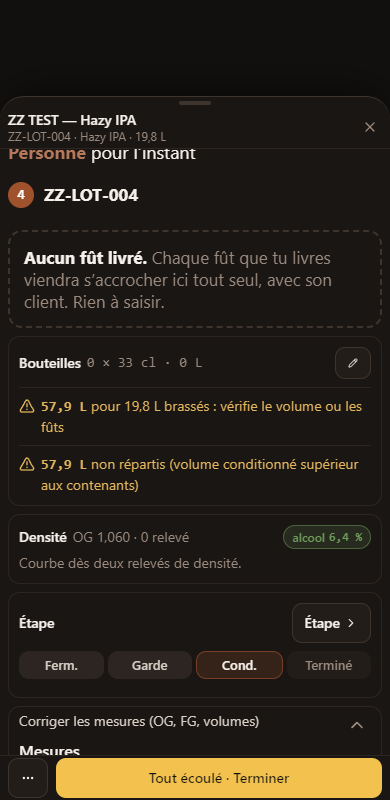
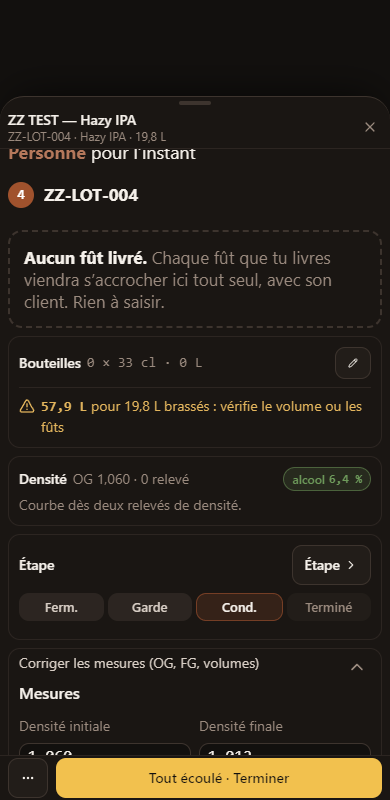
Bugs k1 A : points 1 et 4 — bandeau du haut sans la valeur refusée, carte Contenants sans seconde alerte de volume ; CORRECTIONS-A

diff --git a/src/ui/production/fiche/PostFiche.tsx b/src/ui/production/fiche/PostFiche.tsx
@@ -201,7 +201,8 @@ export const Contenants: React.FC<{ batch: Batch; futs: Array<{ id: string; capa
       {/* BR-115, BE-86 : un brassin ne donne pas plus de bière qu'il n'en contenait ; douteux = signalé, jamais effacé. */}
       {(() => { const cuve = packagingLimitL(batch); return cuve !== null && batch.volumePackagedL != null && batch.volumePackagedL > cuve + 1e-9
         ? <p role="status" data-conditionne-trop className="mt-2 flex items-start gap-1.5 border-t border-cave-800 pt-2 text-sm text-attention"><AlertTriangle size={16} className="mt-0.5 shrink-0" aria-hidden="true" /><span><Mono className="font-semibold">{nombreFr(batch.volumePackagedL, 1)} L</Mono> pour {nombreFr(cuve, 1)} L brassés : vérifie le volume ou les fûts</span></p> : null; })()}
-      {vol && vol.nonRepartisL > 0 && <p role="status" data-non-repartis className="mt-2 flex items-start gap-1.5 border-t border-cave-800 pt-2 text-sm text-attention"><AlertTriangle size={16} className="mt-0.5 shrink-0" aria-hidden="true" /><span><Mono className="font-semibold">{nombreFr(vol.nonRepartisL, 1)} L</Mono> non répartis (volume conditionné supérieur aux contenants)</span></p>}
+      {/* k1 n° 4 : « pour 19,8 L brassés » dit déjà que le volume est trop grand ; « non répartis » le redirait (une seule alerte de volume). */}
+      {vol && vol.nonRepartisL > 0 && !(packagingLimitL(batch) !== null && batch.volumePackagedL != null && batch.volumePackagedL > packagingLimitL(batch)! + 1e-9) && <p role="status" data-non-repartis className="mt-2 flex items-start gap-1.5 border-t border-cave-800 pt-2 text-sm text-attention"><AlertTriangle size={16} className="mt-0.5 shrink-0" aria-hidden="true" /><span><Mono className="font-semibold">{nombreFr(vol.nonRepartisL, 1)} L</Mono> non répartis (volume conditionné supérieur aux contenants)</span></p>}
     </Panneau>
   );
 };

diff --git a/tests/unit/bugs-k1-a.test.tsx b/tests/unit/bugs-k1-a.test.tsx
@@ -36,6 +36,9 @@ describe('k1 A — feuille Mesures', () => {
     const resume = carteDensite().textContent ?? '';
     expect(resume).not.toMatch(/2,500/);
     expect(resume).toMatch(/OG 1,060/);
+    // La tuile « OG » du bandeau du haut garde aussi la valeur enregistrée.
+    expect(screen.queryAllByText('2,500')).toHaveLength(0);
+    expect(screen.getAllByText('1,060').length).toBeGreaterThan(0);
   });
 
   it('2 : un seul compte de relevés, le même dans le résumé « Densité » et sous « Densité au fil du brassin »', () => {
@@ -62,5 +65,7 @@ describe('k1 A — feuille Mesures', () => {
     rendre(base({ volumePackagedL: 57.9 }));
     const dit = (document.body.textContent ?? '').match(/57,9 L\s*(?:conditionnés\s*)?pour 19,8 L brassés/g) ?? [];
     expect(dit.length).toBe(1);
+    // Et la carte « Contenants » n'ajoute pas une seconde alerte de volume (« non répartis ») pour le même fait.
+    expect(screen.queryByText(/non répartis/)).toBeNull();
   });
 });

diff --git a/src/ui/BatchDetailSheet.tsx b/src/ui/BatchDetailSheet.tsx
@@ -431,7 +431,7 @@ export const BatchDetailSheet: React.FC<BatchDetailSheetProps> = ({
           {planned
             ? <PlannedDate batch={draft} now={nowMs} geste={datePlan} onGeste={setDatePlan} onSave={date => void saveDate(date)} erreur={dateError} />
             : post
-              ? <HeroEtat batch={draft} now={nowMs} />
+              ? <HeroEtat batch={enregistre} now={nowMs} />
               : ficheM
               ? <FicheFermentation m={ficheM} verbe={draft.brewDay?.pitchedAt != null ? 'levuré' : 'brassé'} toast={toastStock} onTache={basculerTache}
                   reserve={pending.map(l => `${stockNames.get(l.stockItemRef) ?? l.stockItemRef} · ${Units.format(l.quantity, l.unit)}`)}

diff --git a/work/missions/2026-11-19-bugs-ecrans/voies/k1/CORRECTIONS-A.md b/work/missions/2026-11-19-bugs-ecrans/voies/k1/CORRECTIONS-A.md
@@ -1,0 +1,14 @@
+# k1 — corrections A (feuille Mesures, caisse, notes de recette)
+
+1 | corrigé | e236c8abb + (bandeau du haut : voir commit suivant) | la valeur refusée (OG 2,5) ne passe ni dans le résumé « Densité » ni dans la tuile OG du bandeau : capture p1-og-refusee-1280-clair montre « OG 1,060 » et « 1,060 » avec le message rouge au champ
+2 | corrigé | e236c8abb | un seul compte, celui du journal : « 0 relevé » sous « Densité » et « OG · FG · 0 relevé » sous « Densité au fil du brassin » (p1-og-refusee-1280-clair, p4-conditionne-390-cave-volumes)
+3 | corrigé | e236c8abb | « Densité finale » affiche « 1,012 » (comme la saisie 2,5 → « 2,5 ») : p1-og-refusee-390-cave-champs
+4 | corrigé | e236c8abb + (carte Contenants : voir commit suivant) | une seule alerte, « 57,9 L pour 19,8 L brassés » sous « Bouteilles » ; ni « non répartis » ni répétition sous « Conditionné » : p4-conditionne-390-cave-contenants
+5 | corrigé | a72967a1d | la rangée « Mon mois · Encaisser » a le fond de la feuille (245,245,245 clair ; 26,22,19 cave), mesuré et vu : c1-rangee-390-clair, c1-rangee-390-cave, c1-rangee-1280-clair
+RL-13 (demande exécutant b1) | capturé | — | le bloc de notes à 390 cave lit « OG 1,031 · 11,3 % AA · ensemencement 27,5 °C · Empâtage 22,8 L · enregistré le 05.09.2026 » (date gardée avec ses points) : rl13-notes-390-cave
+
+Captures : work/missions/2026-11-19-bugs-ecrans/voies/k1/captures-a/. Journaux : run1.log (rouge point 5 : bande 255 ≠ feuille 245), run2-4.log (vert).
+Tests : tests/unit/bugs-k1-a.test.tsx (4, rouges avant, verts après) + 14 fichiers voisins : 89 passés, 0 échoué. tsc : aucune erreur sur les fichiers touchés.
+Tests existants ajustés : bugs-b1-mesures (une alerte, plus deux), batchAm4Am5 et dashboardNavigation (valeur du champ « 1,050 » au lieu de « 1.050 »).
+Notes : lecture étroite du point 1 (OG inconnue = « OG » omise du résumé, comme avant) ; le point 2 compte les relevés du journal (releves()), l'OG et la FG sont nommées sans compte. À 390, le champ de densité est un textarea (name inchangé).
+Hors voie, vu : tests/integration/yeastPitchingExecution.test.tsx échoue (« Levure · » introuvable) dans la zone Levure/Conduite, sans lien avec ces corrections.
